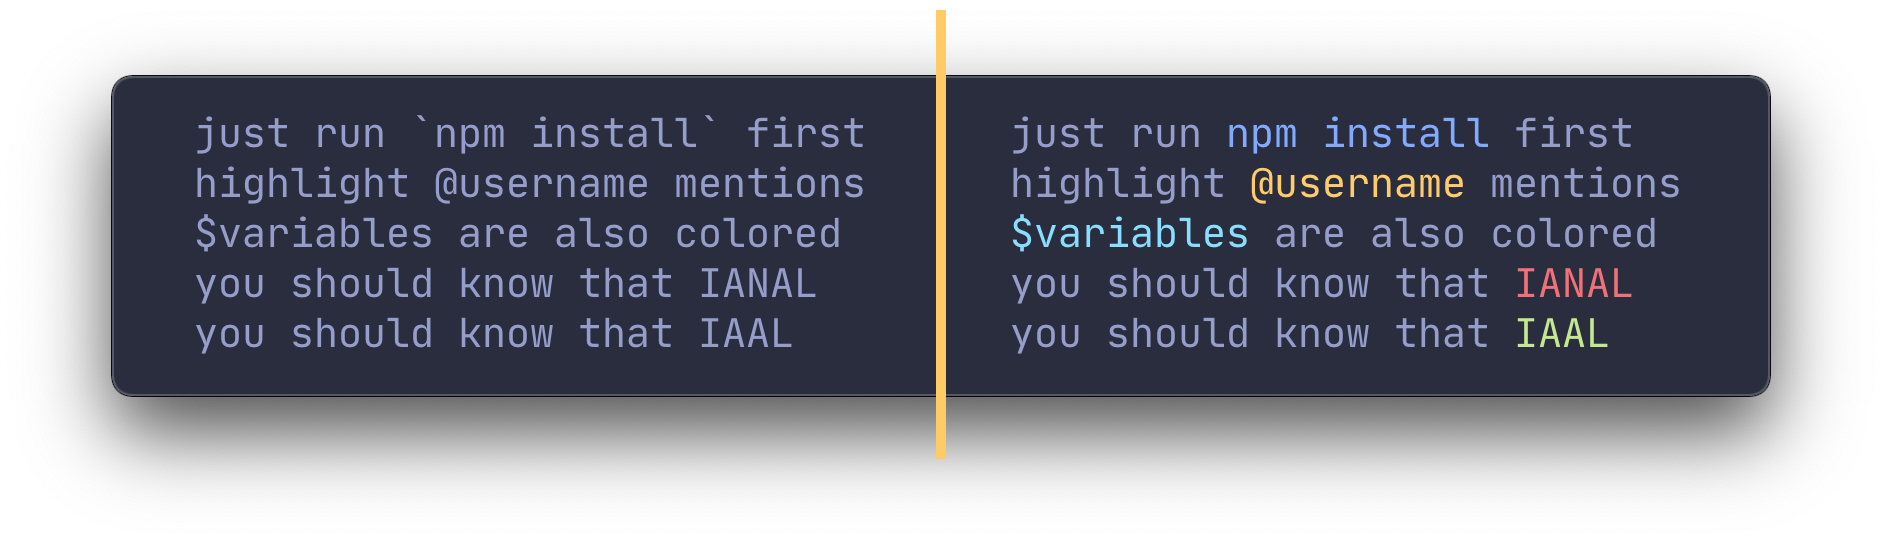
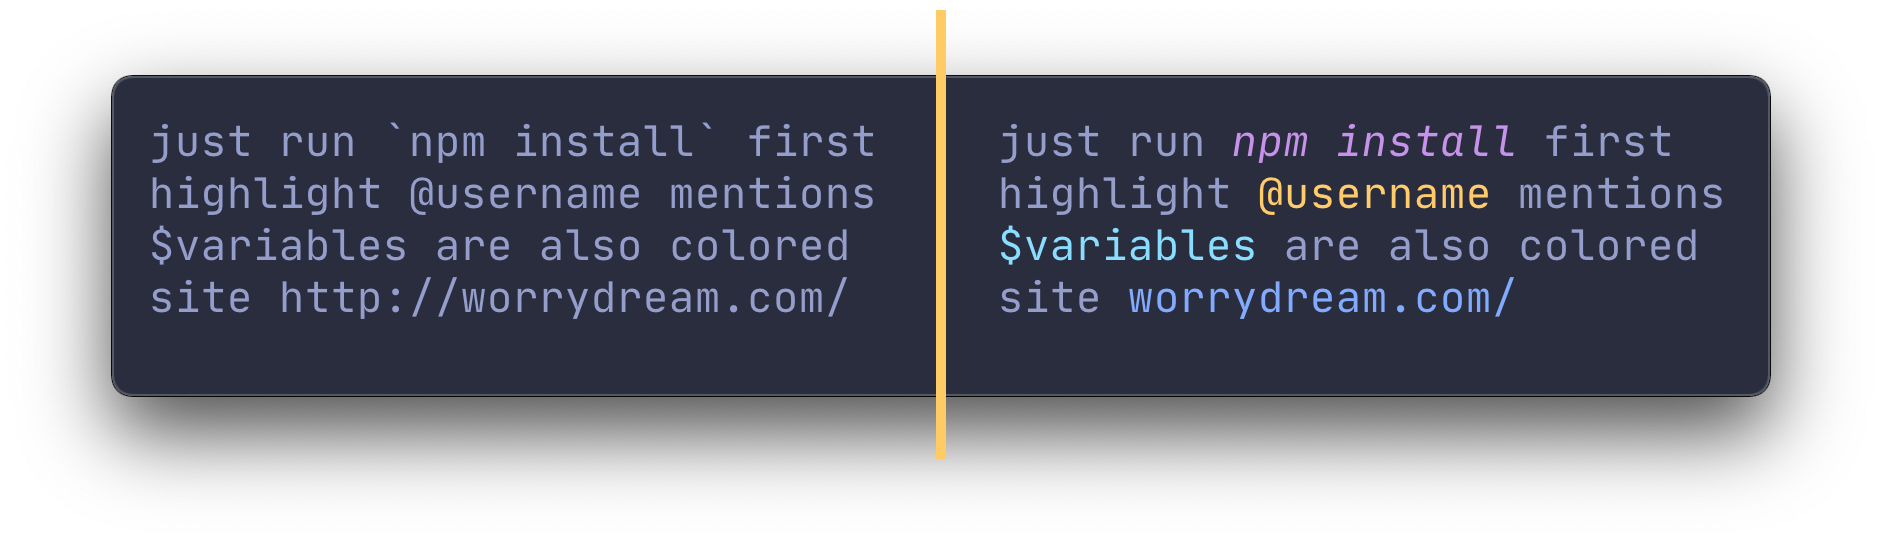
Update comment highlighting description

Changed region(s): [[0.0616, 0.2188, 0.4623, 0.6562], [0.5239, 0.2188, 0.9245, 0.6562]]

diff --git a/README.md b/README.md
@@ -143,8 +143,8 @@ Quotes are indented, italicized and dimmed in order to distinguish them from the
   <img src="screenshots/quotes.png" width="800" alt="^"/>
 </p>
 
-#### Hacker News and forum idiosyncracies
-`` `Code snippets` ``, `@username` mentions, `$variables` and `I Am A Lawyer` / `I Am Not A Lawyer` disclaimers are all highlighted.
+#### Hacker News and forum idiosyncrasies
+Code snippets, `@username` mentions, `$variables` and URLs are all highlighted.
 
 <p align="center">
   <img src="screenshots/commentSyntax.png" width="700" alt="^"/>
@@ -302,7 +302,7 @@ The following table shows the different ways in which `circumflex` can be config
 | `CLX_HIDE_YC_JOBS`          | `true` | Hides `X is hiring` posts from YC-funded startups. Does not affect the monthly `Who is Hiring?` posts. |
 | `CLX_PRESERVE_RIGHT_MARGIN` | `false` | Shortens replies so that the total length, including indentation, is the same as the comment width. Best used when Indent Size is small to avoid deep replies being too short. |
 | `CLX_ALT_INDENT_BLOCK`      | `false` | Turn this setting on if the indent block does not appear as one connected line. |
-| `CLX_COMMENT_HIGHLIGHTING`  | `true` | Enables syntax highlighting in the comment section for \`code snippets\`, `@mentions`, `$variables` and `IANAL`/`IAAL` disclaimers. |
+| `CLX_COMMENT_HIGHLIGHTING`  | `true` | Enables syntax highlighting in the comment section. |
 | `CLX_EMOJI_SMILEYS`         | `false` | Converts regular smileys to their emoji counterpart. |
 | `CLX_MARK_AS_READ`          | `true` | Mark submissions as read after entering the comment section. |
 
